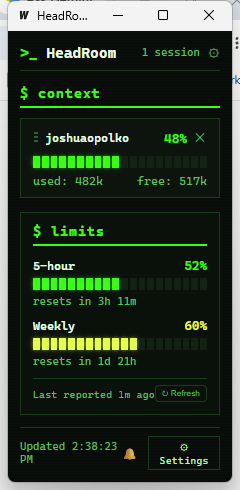
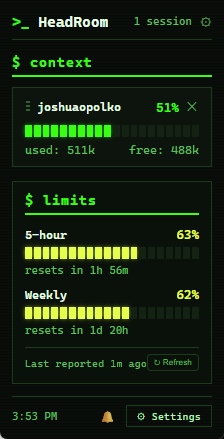
Crop the main screenshot to the app's own content; shorter footer time
The screenshot is now only the client area (no title bar, border or desktop).
The footer shows just the time, so it no longer wraps next to the Settings
button.

diff --git a/frontend/main.js b/frontend/main.js
@@ -181,7 +181,8 @@ async function updateSessions() {
         status.textContent = (!sessions || sessions.length === 0) ? 'No sessions'
             : `${sessions.length} session${sessions.length > 1 ? 's' : ''}`;
 
-        lastUpdate.textContent = `Updated ${new Date().toLocaleTimeString()}`;
+        lastUpdate.textContent = new Date().toLocaleTimeString([], { hour: 'numeric', minute: '2-digit' });
+        lastUpdate.title = 'Last refreshed';
     } catch (error) {
         console.error('Error fetching sessions:', error);
         status.textContent = 'Error';
